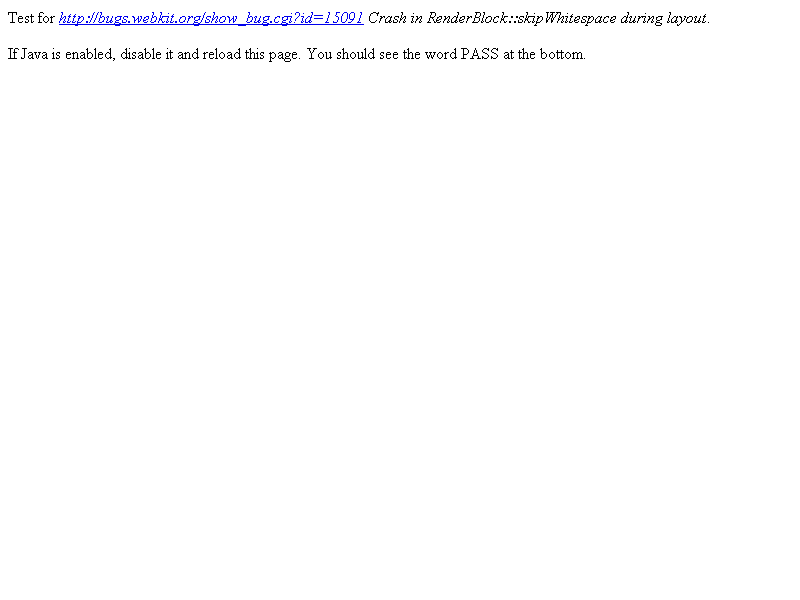
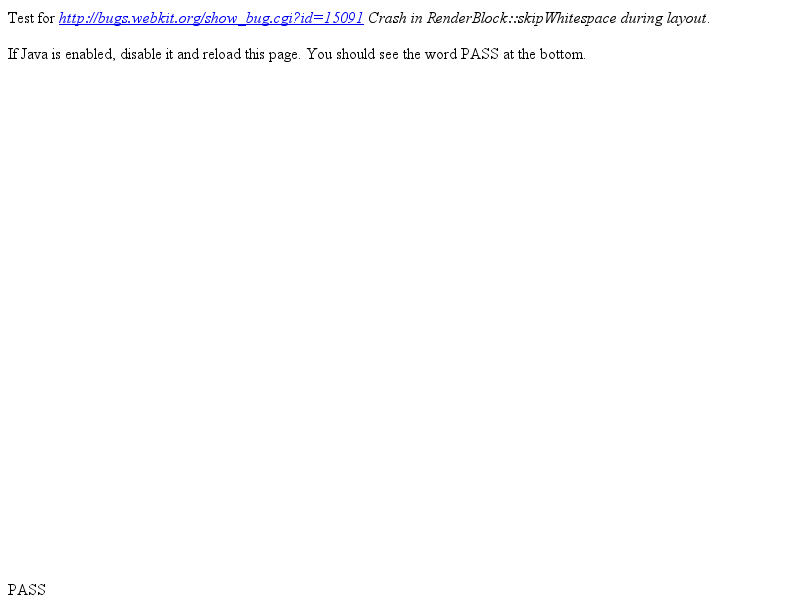
Fix bug 27217 - disable Java in test_shell by default, to match DumpRenderTree's behavior. This causes a couple other tests to produce output that could be construed as "failing" (in the way that upstream fails as well). I will file a separate bug in webkit to figure out what to do about them.
R=eseidel@chromium.org
  BUG=27217
  TEST=LayoutTests/fast/replaced/applet-rendering-java-disabled.html

Review URL: http://codereview.chromium.org/405026

git-svn-id: svn://svn.chromium.org/chrome/trunk/src@32479 0039d316-1c4b-4281-b951-d872f2087c98

diff --git a/webkit/tools/test_shell/test_shell.cc b/webkit/tools/test_shell/test_shell.cc
@@ -434,7 +434,7 @@ void TestShell::ResetWebPreferences() {
         web_prefs_->shrinks_standalone_images_to_fit = false;
         web_prefs_->uses_universal_detector = false;
         web_prefs_->text_areas_are_resizable = false;
-        web_prefs_->java_enabled = true;
+        web_prefs_->java_enabled = false;
         web_prefs_->allow_scripts_to_close_windows = false;
         web_prefs_->xss_auditor_enabled = false;
         // It's off by default for Chrome, but we don't want to
